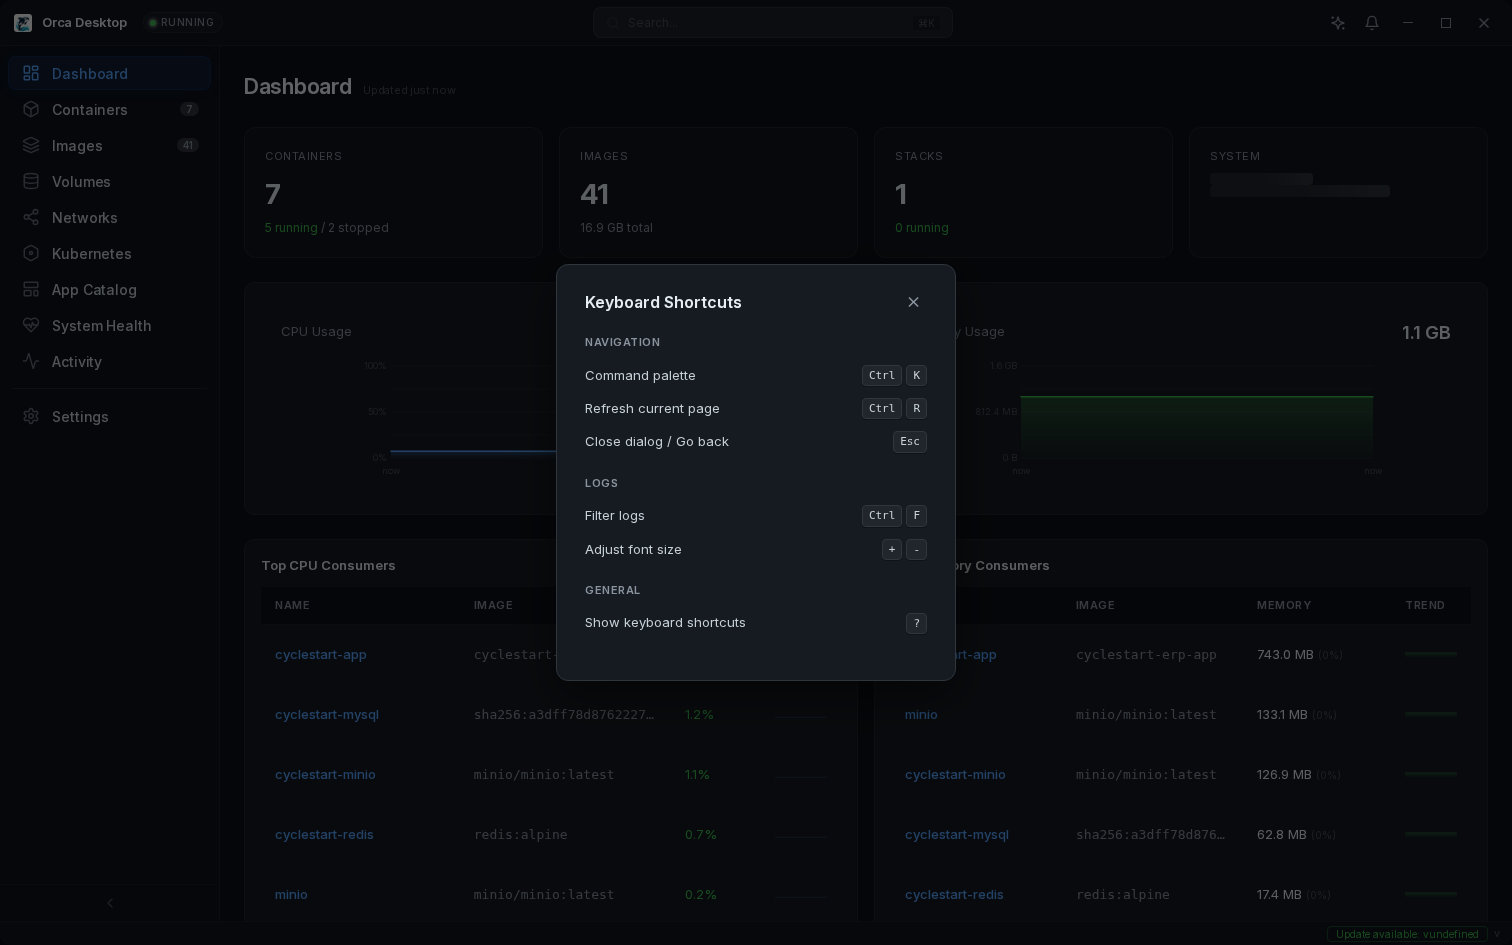
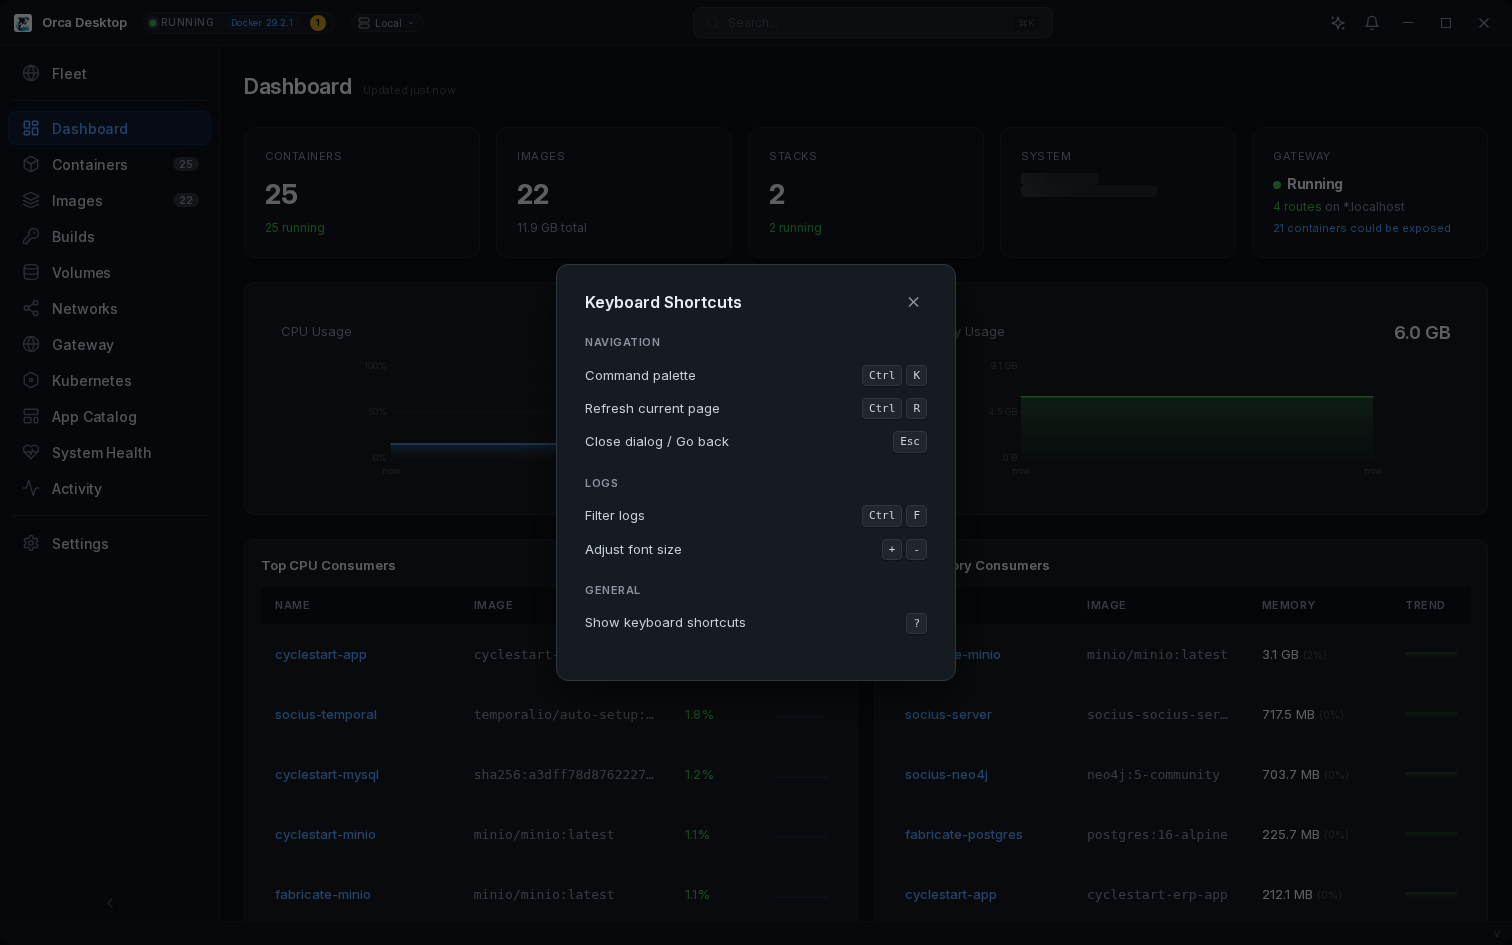
Release v0.46.2: Fix rustls crypto panic, refresh all screenshots
CRITICAL (Linux K8s) — rustls CryptoProvider panic

orca-daemon's kube client connections panicked the tokio worker
thread on first TLS handshake to the K3s API server:

  thread 'tokio-rt-worker' panicked at rustls-0.23.37/src/crypto/mod.rs:249:
  Could not automatically determine the process-level CryptoProvider

rustls 0.23 no longer picks a default crypto provider implicitly,
and hyper-rustls (pulled transitively via kube) does not install
one. Result: every K8s operation on Linux (list namespaces, list
pods, enable Kubernetes page, etc.) failed silently with an empty
HTTP response while the worker thread died.

Fix: add rustls as a direct dependency in orca-daemon with the
`ring` feature, and call
  rustls::crypto::ring::default_provider().install_default()
once at startup in main(). Verified with a local K3s cluster: the
k8s/status, k8s/namespaces, and k8s/deployments endpoints now
return correct data.

Test suite / screenshots

- gui/e2e/screenshots.spec.ts: the K8s tab tests used
  `.filter-pill` but the actual markup is `.tab-item`, so tests
  11–15 (Deployments/Services/Helm/Jobs/Topology) matched nothing
  and skipped the screenshot step. Updated the selector.
- Regenerated all 26 screenshots against a live K3s cluster with
  the `demo` namespace (nginx/postgres/redis). K8s tab screenshots
  now show real data, and the status-bar updater banner no longer
  reads "Update available: vundefined" (fixed in v0.46.1).

diff --git a/gui/e2e/screenshots.spec.ts b/gui/e2e/screenshots.spec.ts
@@ -355,7 +355,7 @@ test.describe("Orca Desktop Screenshots", () => {
   test("11 - K8s Deployments", async ({ page }) => {
     await navigateTo(page, "Kubernetes");
     await selectK8sNamespace(page, "demo");
-    const tab = page.locator(".filter-pill", { hasText: "Deployments" }).first();
+    const tab = page.locator(".tab-item", { hasText: "Deployments" }).first();
     if (await tab.isVisible({ timeout: 2000 }).catch(() => false)) {
       await tab.click();
       await waitForPageLoad(page);
@@ -366,7 +366,7 @@ test.describe("Orca Desktop Screenshots", () => {
   test("12 - K8s Services", async ({ page }) => {
     await navigateTo(page, "Kubernetes");
     await selectK8sNamespace(page, "demo");
-    const tab = page.locator(".filter-pill", { hasText: "Services" }).first();
+    const tab = page.locator(".tab-item", { hasText: "Services" }).first();
     if (await tab.isVisible({ timeout: 2000 }).catch(() => false)) {
       await tab.click();
       await waitForPageLoad(page);
@@ -376,7 +376,7 @@ test.describe("Orca Desktop Screenshots", () => {
 
   test("13 - K8s Helm", async ({ page }) => {
     await navigateTo(page, "Kubernetes");
-    const tab = page.locator(".filter-pill", { hasText: "Helm" }).first();
+    const tab = page.locator(".tab-item", { hasText: "Helm" }).first();
     if (await tab.isVisible({ timeout: 2000 }).catch(() => false)) {
       await tab.click();
       await waitForPageLoad(page);
@@ -386,7 +386,7 @@ test.describe("Orca Desktop Screenshots", () => {
 
   test("14 - K8s Jobs", async ({ page }) => {
     await navigateTo(page, "Kubernetes");
-    const tab = page.locator(".filter-pill", { hasText: "Jobs" }).first();
+    const tab = page.locator(".tab-item", { hasText: "Jobs" }).first();
     if (await tab.isVisible({ timeout: 2000 }).catch(() => false)) {
       await tab.click();
       await waitForPageLoad(page);
@@ -397,7 +397,7 @@ test.describe("Orca Desktop Screenshots", () => {
   test("15 - K8s Topology", async ({ page }) => {
     await navigateTo(page, "Kubernetes");
     await selectK8sNamespace(page, "demo");
-    const tab = page.locator(".filter-pill", { hasText: "Topology" }).first();
+    const tab = page.locator(".tab-item", { hasText: "Topology" }).first();
     if (await tab.isVisible({ timeout: 2000 }).catch(() => false)) {
       await tab.click();
       await waitForPageLoad(page);

diff --git a/crates/orca-daemon/src/main.rs b/crates/orca-daemon/src/main.rs
@@ -53,6 +53,16 @@ async fn main() -> anyhow::Result<()> {
         )
         .init();
 
+    // Install the rustls `ring` crypto provider process-wide. rustls 0.23
+    // does not pick a default provider on its own — every TLS connection
+    // would otherwise panic the worker thread with
+    //   "Could not automatically determine the process-level CryptoProvider"
+    // the first time it tries to handshake (e.g. when the kube client
+    // connects to the K8s API server). `install_default` is idempotent
+    // when called from one place at startup, and returns Err if something
+    // else already installed a provider — which we tolerate.
+    let _ = rustls::crypto::ring::default_provider().install_default();
+
     let args = Args::parse();
     let mut config = orca_core::config::OrcaConfig::load()?;
 
